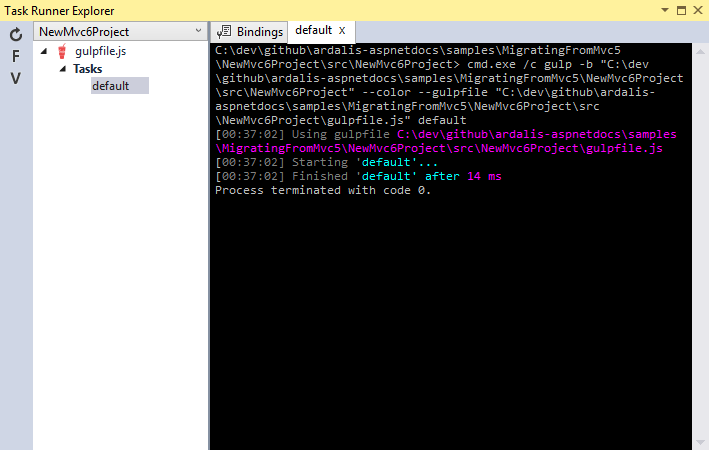
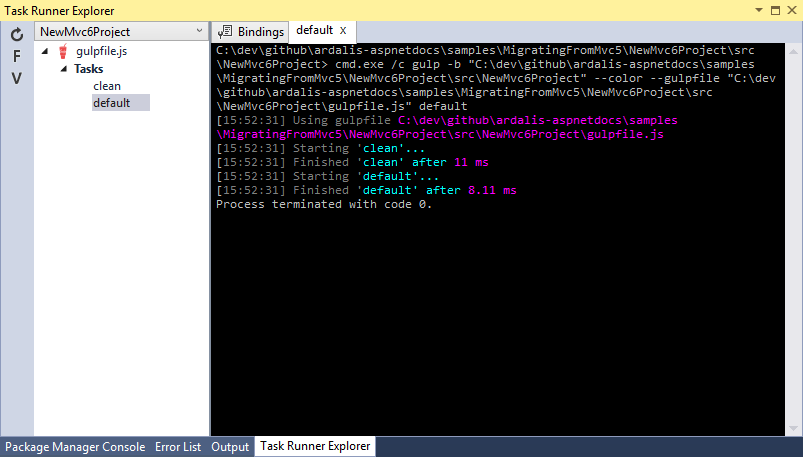
Switched from gulp-clean to rimraf to match project template; updated screenshots and article.

Changed region(s): [[0.0, 0.0, 1.0, 1.0], [0.9309, 0.0, 0.9929, 0.0311]]

diff --git a/samples/MigratingFromMvc5/NewMvc6Project/src/NewMvc6Project/Gulpfile.js b/samples/MigratingFromMvc5/NewMvc6Project/src/NewMvc6Project/Gulpfile.js
@@ -4,7 +4,7 @@ Click here to learn more. http://go.microsoft.com/fwlink/?LinkId=518007
 */
 
 var gulp = require('gulp');
-var clean = require('gulp-clean');
+var rimraf = require('rimraf');
 var concat = require('gulp-concat');
 
 var paths = {
@@ -12,9 +12,8 @@ var paths = {
     lib: "./wwwroot/lib/"
 };
 
-gulp.task('clean', function () {
-    return gulp.src(paths.lib + '*')
-        .pipe(clean());
+gulp.task('clean', function (callback) {
+    rimraf(paths.lib, callback);
 });
 
 gulp.task('default', ['clean'], function () {
@@ -33,7 +32,7 @@ gulp.task('default', ['clean'], function () {
 });
 
 gulp.task('concat', function () {
-    return gulp.src([paths.lib + 'bootstrap/js/bootstrap.min.js',
+    gulp.src([paths.lib + 'bootstrap/js/bootstrap.min.js',
             paths.lib + 'jquery/jquery.min.js'])
         .pipe(concat("bundle.js"))
         .pipe(gulp.dest(paths.lib));

diff --git a/docs/migrating/migratingfrommvc5/migratingfrommvc5.rst b/docs/migrating/migratingfrommvc5/migratingfrommvc5.rst
@@ -129,14 +129,12 @@ Bower will automatically download the specified dependencies, but for now the fi
 
 .. image:: _static/project-structure-bower.png
 
-Next, we will configure Gulp to process these files and place them where we want them in the wwwroot folder. First, we need to make sure Gulp is installed locally for the project. This is accomplished using NPM, which is similar to Bower but requires a different configuration file, "package.json". Add a new NPM configuration file to the root of the project, called package.json. Add the following to the devDependencies property (you should get Intellisense as you type each package name):
+Next, we will configure Gulp to process these files and place them where we want them in the wwwroot folder. First, we need to make sure Gulp is installed locally for the project. This is accomplished using NPM, which is similar to Bower but requires a different configuration file, "package.json". Add a new NPM configuration file to the root of the project, called package.json. Add *gulp*, *rimraf*, and *guld-concat* to the devDependencies property (you should get Intellisense as you type each package name). When you're finished, your file should look similar to this one:
 
-.. code-block:: javascript
-
-	"devDependencies": {
-        "gulp": "3.8.11",
-        "gulp-clean": "0.3.1"
-	}
+.. literalinclude:: ../../../samples/MigratingFromMvc5/NewMvc6Project/src/NewMvc6Project/package.json
+	:language: javascript
+	:emphasize-lines: 6-8
+	:linenos: 
 
 Save your changes. You should see a new NPM folder in your project, under Dependencies, and it should now include gulp (3.8.11) as well as the related packages. In addition to Gulp itself, these two packages will allow us to clean up folders before we copy files to them, and to concatenate two or more files together, to achieve bundling.
 
@@ -149,16 +147,15 @@ We need to configure Gulp to use Bower, and then register tasks associated with 
 .. code-block:: javascript
 
 	var gulp = require('gulp');
-	var clean = require('gulp-clean');
+	var rimraf = require('rimraf');
 
 	var paths = {
 		bower: "./bower_components/",
 		lib: "./wwwroot/lib/"
 	};
 
-	gulp.task('clean', function () {
-		return gulp.src(paths.lib + '*')
-			.pipe(clean());
+	gulp.task('clean', function (callback) {
+		rimraf(paths.lib, callback);
 	});
 
 	gulp.task('default', ['clean'], function () {
@@ -227,50 +224,16 @@ To simply bundle the jQuery and bootstrap scripts together into a single, minifi
 
 	"devDependencies": {
         "gulp": "3.8.11",
-        "gulp-clean": "0.3.1",
+        "rimraf": "2.3.2",
         "gulp-concat": "2.5.2"
 	}
 
 Save the package.json file and the new package should be installed. You can confirm by checking in the Dependencies/NPM folder to see that the gulp-concat package is listed there. Next, we will add a concat task to Gulpfile.js. Add the highlighted sections:
 
-.. code-block:: javascript
-	:emphasize-lines: 3, 30-35
-
-	var gulp = require('gulp');
-	var clean = require('gulp-clean');
-	var concat = require('gulp-concat');
-
-	var paths = {
-		bower: "./bower_components/",
-		lib: "./wwwroot/lib/"
-	};
-
-	gulp.task('clean', function () {
-		return gulp.src(paths.lib + '*')
-			.pipe(clean());
-	});
-
-	gulp.task('default', ['clean'], function () {
-		var bower = {
-			"bootstrap": "bootstrap/dist/**/*.{js,map,css,ttf,svg,woff,eot}",
-			"jquery": "jquery/jquery*.{js,map}",
-			"jquery-validation": "jquery-validation/jquery.validate.js",
-			"jquery-validation-unobtrusive":
-				"jquery-validation-unobtrusive/jquery.validate.unobtrusive.js"
-		};
-
-		for (var destinationDir in bower) {
-			gulp.src(paths.bower + bower[destinationDir])
-				.pipe(gulp.dest(paths.lib + destinationDir));
-		}
-	});
-
-	gulp.task('concat', function () {
-		return gulp.src([paths.lib + 'bootstrap/js/bootstrap.min.js',
-				paths.lib + 'jquery/jquery.min.js'])
-			.pipe(concat("bundle.js"))
-			.pipe(gulp.dest(paths.lib));
-	});
+.. literalinclude:: ../../../samples/MigratingFromMvc5/NewMvc6Project/src/NewMvc6Project/Gulpfile.js
+	:language: javascript
+	:emphasize-lines: 8,34-39
+	:linenos: 
 
 Save Gulpfile.js, then open the Task Runner Explorer. Right click on the concat task and run it. You should see the output, which should show that it runs without errors. In your solution explorer, you should see the bundle.js file in wwwroot/lib. You can see all of this working in the screenshot:
 
